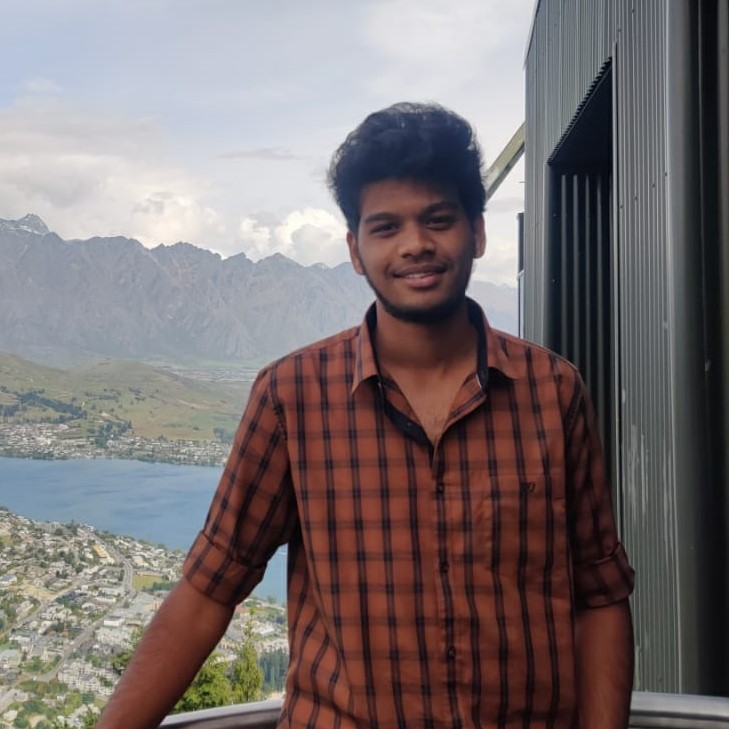
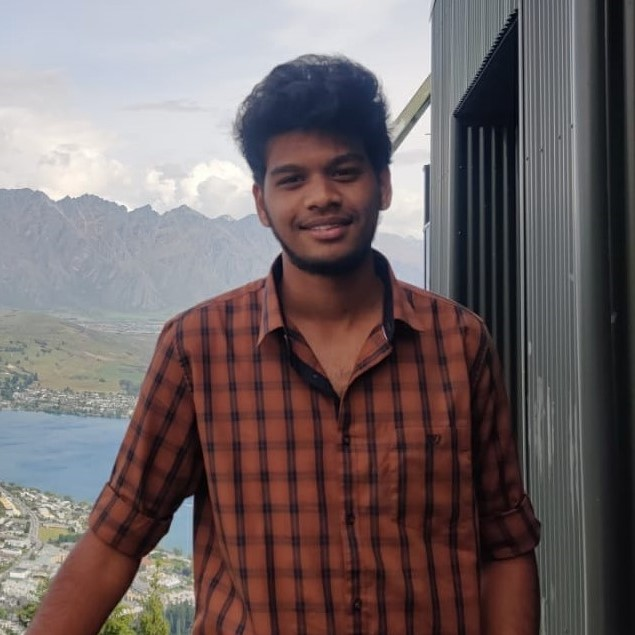
add naidu's profile

diff --git a/index.html b/index.html
@@ -20,7 +20,7 @@
 
   <div id="Resume"></div>
 
-  
+
   <div class="resume">
     <div class="column1">
       <section class="profile">
@@ -218,7 +218,7 @@
         <h2>Your Interests</h2>
         <ul>
           <li>Anime</li>
-          <li>Gaming - PUBG</li>
+          <li>Gaming</li>
           <li>Bike riding</li>
           <li>Table Tennis</li>
           <li>Competitive programming</li>
@@ -257,36 +257,37 @@
   <div class="resume-3">
     <div class="column1">
       <section class="profile">
-        <h1>Prujit Marni</h1>
+        <h1>
+          Naidu Praneeth
+        </h1>
         <p><em>2nd year Computer Engineering</em></p>
-        <img src="https://i.pinimg.com/originals/db/e8/ae/dbe8ae9521e5f9bab72d0aea3e9c6739.jpg" alt="Random image">
+        <img src="./images/praneeth.jpg" alt="praneeth">
       </section>
 
       <section class="contact">
         <h2>Contacts</h2>
         <ul>
-          <li>Plot no. 943;Pragathi Nagar </li>
-          <li><a href="Mail:marniprujit@gmail.com">marniprujit@gmail.com</a></li>
-          <li><a href="www.linkedin.com/in/prujit-marni/">www.linkedin.com/in/prujit-marni/</a></li>
-          <li><a href="tel:9494896565">9494896565</a></li>
+          <li>Amancherla,Nellore, Andhra Pradesh</li>
+          <li><a href="Mail:praneethnaidu19@gmail.com">praneethnaidu19@gmail.com</a></li>
+          <li><a href="tel:9381002127">9381002127</a></li>
         </ul>
       </section>
 
       <section class="social-links">
         <ul>
           <li>
-            <a href="https://www.linkedin.com/in/sairaj-chouhan-412b911a0/" target="_blank">
+            <a href="#" target="_blank">
               <i class="fab fa-linkedin"></i>
             </a>
           </li>
           <li>
-            <a href="https://www.instagram.com/sairaj.dev/" target="_blank">
+            <a href="https://www.instagram.com/praneeth__nani_/" target="_blank">
               <i class="fab fa-instagram"></i>
             </a>
           </li>
 
           <li>
-            <a href="https://github.com/sairaj2119" target="_blank">
+            <a href="#" target="_blank">
               <i class="fab fa-github"></i>
             </a>
           </li>
@@ -296,12 +297,9 @@
       <section class="skills">
         <h2>Skills</h2>
         <ul>
-          <li>Blah</li>
-          <li>Blah</li>
-          <li>Blah</li>
-          <li>Blah</li>
-          <li>Blah</li>
-
+          <li>c</li>
+          <li>c++</li>
+          <li>MySQL</li>
         </ul>
       </section>
     </div>
@@ -313,14 +311,14 @@
             <span class="duration">2007-2017</span>
             <div class="content">
               <h3>School</h3>
-              <p><em>Silver Oaks International School</em></p>
+              <p><em>Ratnam High school</em></p>
             </div>
           </li>
           <li class="events">
             <span class="duration">2017-2019</span>
             <div class="content">
               <h3>Intermediate</h3>
-              <p><em>Meluha International School</em></p>
+              <p><em>Narayana KGC</em></p>
             </div>
           </li>
           <li class="events">
@@ -336,11 +334,10 @@
       <section class="interests">
         <h2>Your Interests</h2>
         <ul>
-          <li>Blah</li>
-          <li>Blah</li>
-          <li>Blah</li>
-          <li>Blah</li>
-          <li>Blah</li>
+          <li>Photography</li>
+          <li>Sports</li>
+          <li>Gaming</li>
+          <li></li>
         </ul>
       </section>
 
@@ -359,12 +356,13 @@
           <li>
             <h3><b>Strength</b></h3>
           </li>
-          <li>Blah</li>
-          <li>Blah</li>
           <li>
-            <h3><b>Weakness</b></h3>
+            I am a dependable person who is great at time management.
           </li>
-          <li>Blah</li>
+          <li>
+            I am honest and trustworthy in any terms.
+          </li>
+
         </ul>
       </section>
     </div>
@@ -464,7 +462,7 @@
           <li>Basket Ball</li>
           <li>Quantum physics</li>
           <li>Breathing</li>
-          <li>Gaming - FreeFire</li>
+          <li>Gaming</li>
           <li>Reading books</li>
         </ul>
       </section>
